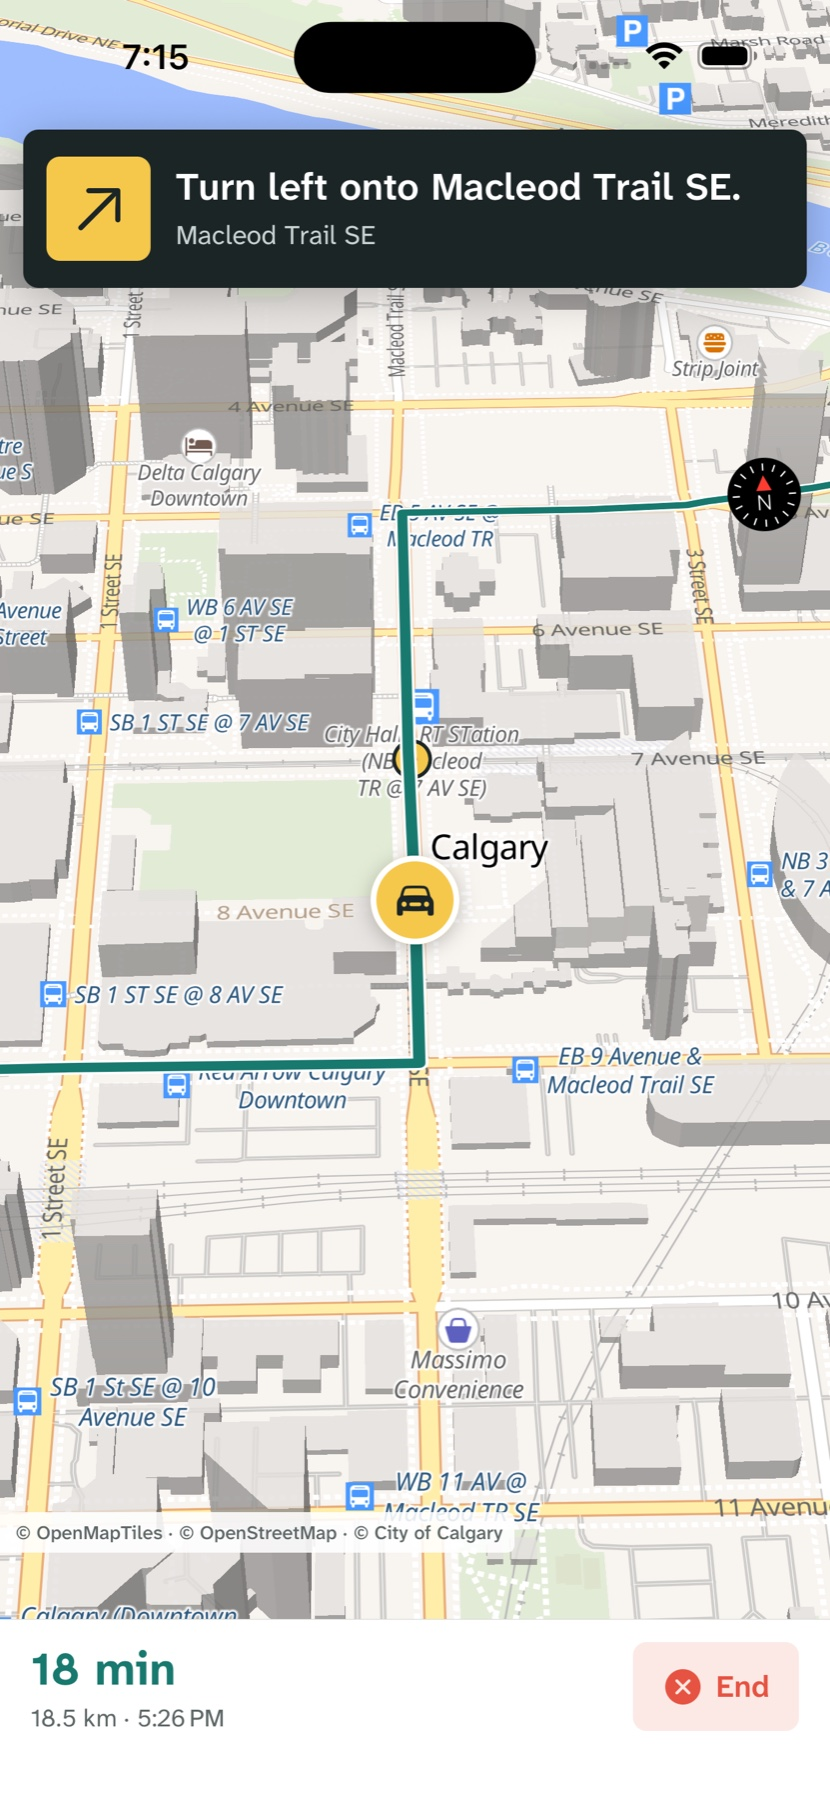
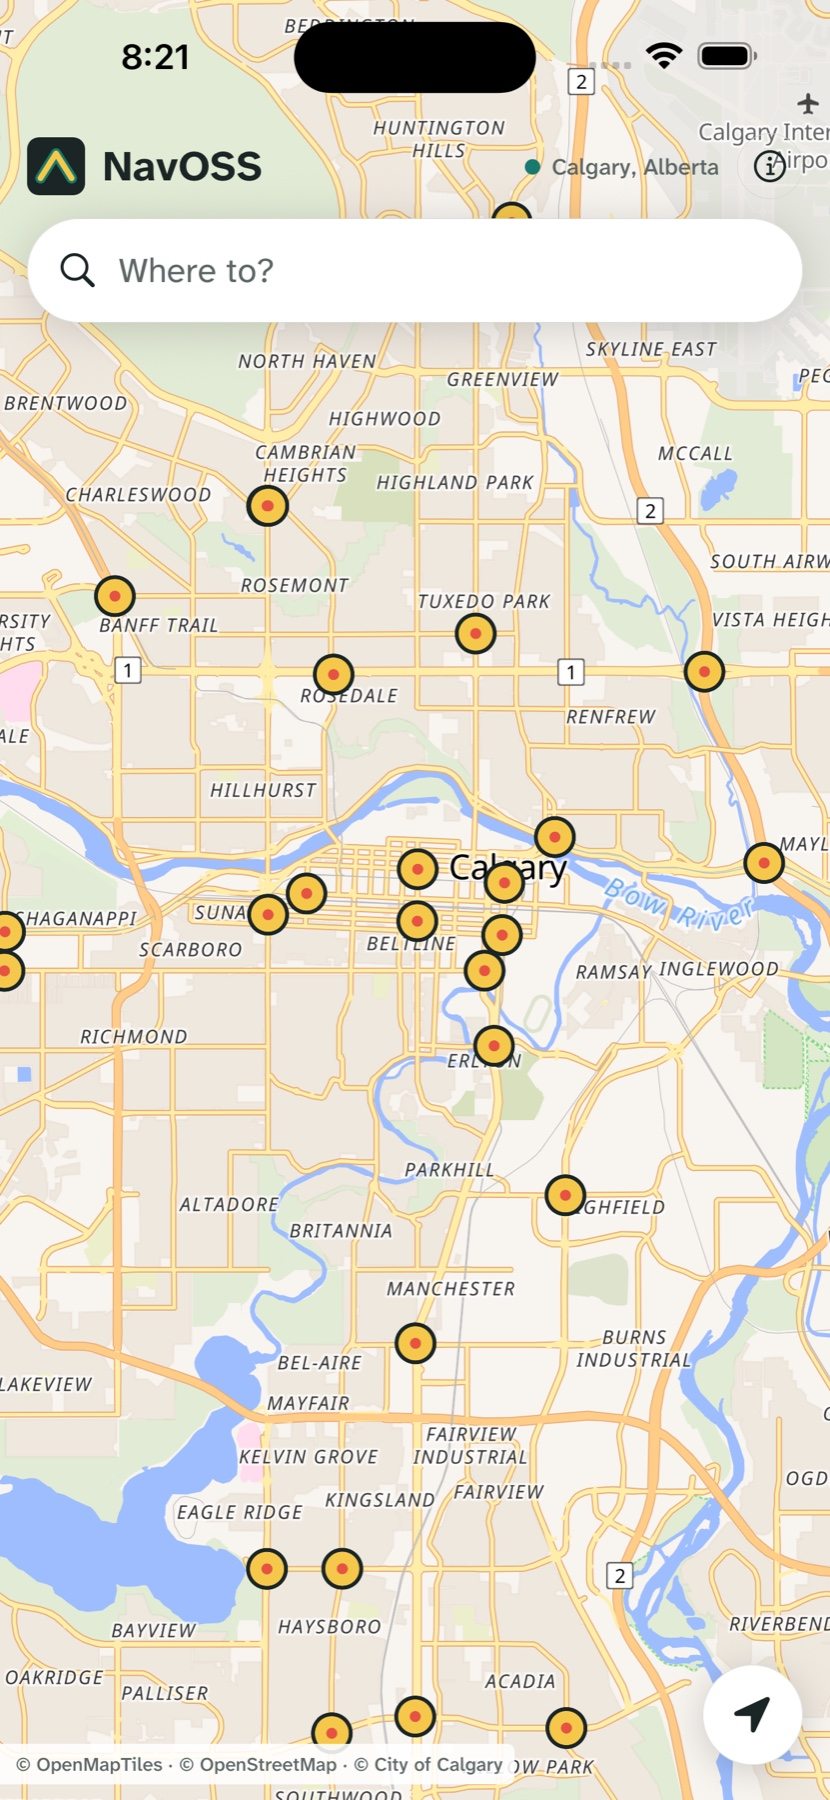
chore: link EAS project and refresh release status

diff --git a/README.md b/README.md
@@ -26,14 +26,14 @@ NavOSS is an independently designed navigation project using OpenStreetMap-deriv
 
 ## Project Status
 
-| Area               | Current state                                                                                            |
-| ------------------ | -------------------------------------------------------------------------------------------------------- |
-| iOS app            | Search, alternatives, route preview, foreground guidance, rerouting, arrival, and official camera alerts |
-| Native core        | Swift course/continuity matching with accuracy-aware off-route and arrival hysteresis                    |
-| API                | Fastify contracts around development search, Valhalla routing, and Calgary camera data                   |
-| Automated evidence | Contract/API/mobile/Swift suites, simulator journeys, and a 16-variant Calgary route matrix              |
-| TestFlight         | Not released; production HTTPS providers, Apple/EAS setup, and public legal/support pages remain gated   |
-| Android            | Planned after the iOS navigation core is stable                                                          |
+| Area               | Current state                                                                                                 |
+| ------------------ | ------------------------------------------------------------------------------------------------------------- |
+| iOS app            | Search, alternatives, route preview, foreground guidance, rerouting, arrival, and official camera alerts      |
+| Native core        | Swift course/continuity matching with accuracy-aware off-route and arrival hysteresis                         |
+| API                | Fastify contracts around development search, Valhalla routing, and Calgary camera data                        |
+| Automated evidence | Contract/API/mobile/Swift suites, simulator journeys, and a 16-variant Calgary route matrix                   |
+| TestFlight         | Not released; production API/providers, App Store Connect setup, signing, and device smoke tests remain gated |
+| Android            | Planned after the iOS navigation core is stable                                                               |
 
 ## Architecture
 

diff --git a/docs/release/testflight.md b/docs/release/testflight.md
@@ -8,7 +8,7 @@ Date: 2026-07-19
 | ----------------------------------------- | ------------------- | ----------------------------------------------------------------------------------------------------------------------------------------------------------------------------------------------------------------------------------------------------- |
 | Local simulator and physical-device alpha | GO                  | Core, API, mobile, native, route-matrix, reroute, arrival, camera, and privacy-sheet checks pass.                                                                                                                                                     |
 | Metro-independent iOS Release archive     | GO, structural only | An unsigned arm64 `0.1.0 (1)` archive succeeded with an embedded bundle, injected HTTPS origin, privacy manifests, compiled icons, foreground-only location, and no localhost/local-network keys. The test origin was reserved and is not deployable. |
-| Internal TestFlight                       | NO-GO               | A real public backend, Apple distribution setup, public privacy/support URLs, and a signed uploaded build are missing.                                                                                                                                |
+| Internal TestFlight                       | NO-GO               | Apple membership, EAS linking, and public privacy/support URLs are complete; a real public backend, App Store Connect record, distribution signing, and uploaded build are still missing.                                                             |
 | External TestFlight                       | NO-GO               | Internal soak, Beta App Review metadata, on-road evidence, support operations, and the internal blockers are incomplete.                                                                                                                              |
 | Public App Store                          | NO-GO               | Background guidance, spoken maneuvers, traffic-aware ETA, production service operations, and broader safety/quality evidence remain incomplete.                                                                                                       |
 
@@ -20,9 +20,9 @@ The right next launch is a small **internal TestFlight technical beta**, not a p
 
 - Deploy a stable public HTTPS NavOSS API. It must use production-capable Valhalla, search, map-tile, and camera dependencies. Public Photon and FOSSGIS endpoints are development-only.
 - Keep request bodies and query strings out of logs. Decide and document IP/security-log retention before publishing the privacy policy.
-- Enroll in the Apple Developer Program, create the App Store Connect app for `org.navoss.mobile`, and establish App Store distribution signing. This Mac currently has only an Apple Development identity.
-- Publish `https://navoss.yassin.app/privacy` and `https://navoss.yassin.app/support`, then verify them without authentication.
-- Activate and test `[email redacted]` forwarding, and make the cleaned source repository public before marketing NavOSS as open source.
+- Create the App Store Connect app for `org.navoss.mobile` and establish App Store distribution signing. Apple Developer Program membership is active; this Mac currently has only an Apple Development identity.
+- Keep `https://navoss.yassin.app/privacy` and `https://navoss.yassin.app/support` current as production providers and retention decisions are finalized.
+- Activate and test `[email redacted]` forwarding. The source repository and private vulnerability reporting are already public.
 - Replace every `REQUIRED` field in `docs/release/app-store-metadata.md`, `docs/privacy.md`, and `docs/support.md`.
 - Reconcile the app privacy manifest and App Store Connect label with the final providers and retention. The current manifest declares no collected data; that is valid only if search/location data is discarded immediately after servicing each request under Apple's definition.
 - Produce build 1 with the real API URL, upload it, install it from TestFlight, disconnect Metro/the Mac, and repeat the physical-device smoke test.
@@ -85,7 +85,7 @@ With local Xcode signing configured:
 
 Native Release compilation has already been exercised with signing disabled. The resulting arm64 archive used bundle ID `org.navoss.mobile`, version `0.1.0 (1)`, and a 3.0 MB embedded JavaScript bundle. It is intentionally not uploadable: this Mac currently has an Apple Development identity only, not the Apple Distribution certificate/profile required by App Store Connect.
 
-An EAS Build workflow is also configured in `apps/mobile/eas.json`, but the app has not yet been linked to an Expo/EAS project. Do not invent a project ID. From `apps/mobile`, the owner should authenticate and run `eas init`, store `EXPO_PUBLIC_API_URL` in the production EAS environment, and add the resulting real project ID to app configuration. The mobile package runs the release validator in EAS's pre-install hook.
+EAS project `@yassinsolim/navoss` is linked in app configuration. Its production environment contains the planned `EXPO_PUBLIC_API_URL=https://api.navoss.yassin.app`; do not queue a production build until that hostname serves the real backend and passes the release gate. The mobile package runs the release validator in EAS's pre-install hook.
 
 The `preview` profile is an ad hoc production-like build, not TestFlight. Use the `production` profile for a store-signed build:
 

diff --git a/docs/release/ci-cd.md b/docs/release/ci-cd.md
@@ -19,7 +19,7 @@ EAS Submit sends iOS builds to TestFlight. It does not submit them for public Ap
 Complete these steps after Apple Developer Program enrollment is active:
 
 1. Create the App Store Connect app for bundle ID `org.navoss.mobile`.
-2. From `apps/mobile`, sign in to Expo and run `eas init` to create the real EAS project ID.
+2. EAS project `@yassinsolim/navoss` is linked with project ID `2a95b51d-dd23-431b-b941-fd80c13aadf5`.
 3. Run the first production build interactively so EAS can establish the Apple Distribution certificate and provisioning profile:
 
    ```sh
@@ -28,7 +28,7 @@ Complete these steps after Apple Developer Program enrollment is active:
 
 4. Configure the App Store Connect API key through `eas credentials --platform ios`.
 5. Add the numeric App Store Connect Apple ID as `submit.production.ios.ascAppId` in `apps/mobile/eas.json`.
-6. Store `EXPO_PUBLIC_API_URL=https://api.navoss.yassin.app` in the EAS `production` environment.
+6. `EXPO_PUBLIC_API_URL=https://api.navoss.yassin.app` is stored in the EAS `production` environment; keep builds blocked until that endpoint is healthy.
 7. Create an Expo access token at <https://expo.dev/settings/access-tokens>.
 8. In GitHub, create an `app-store-production` environment and add `EXPO_TOKEN` as an environment secret. Add protection rules before other maintainers receive release access.
 9. Run the `iOS TestFlight` workflow manually once before relying on GitHub release triggers.